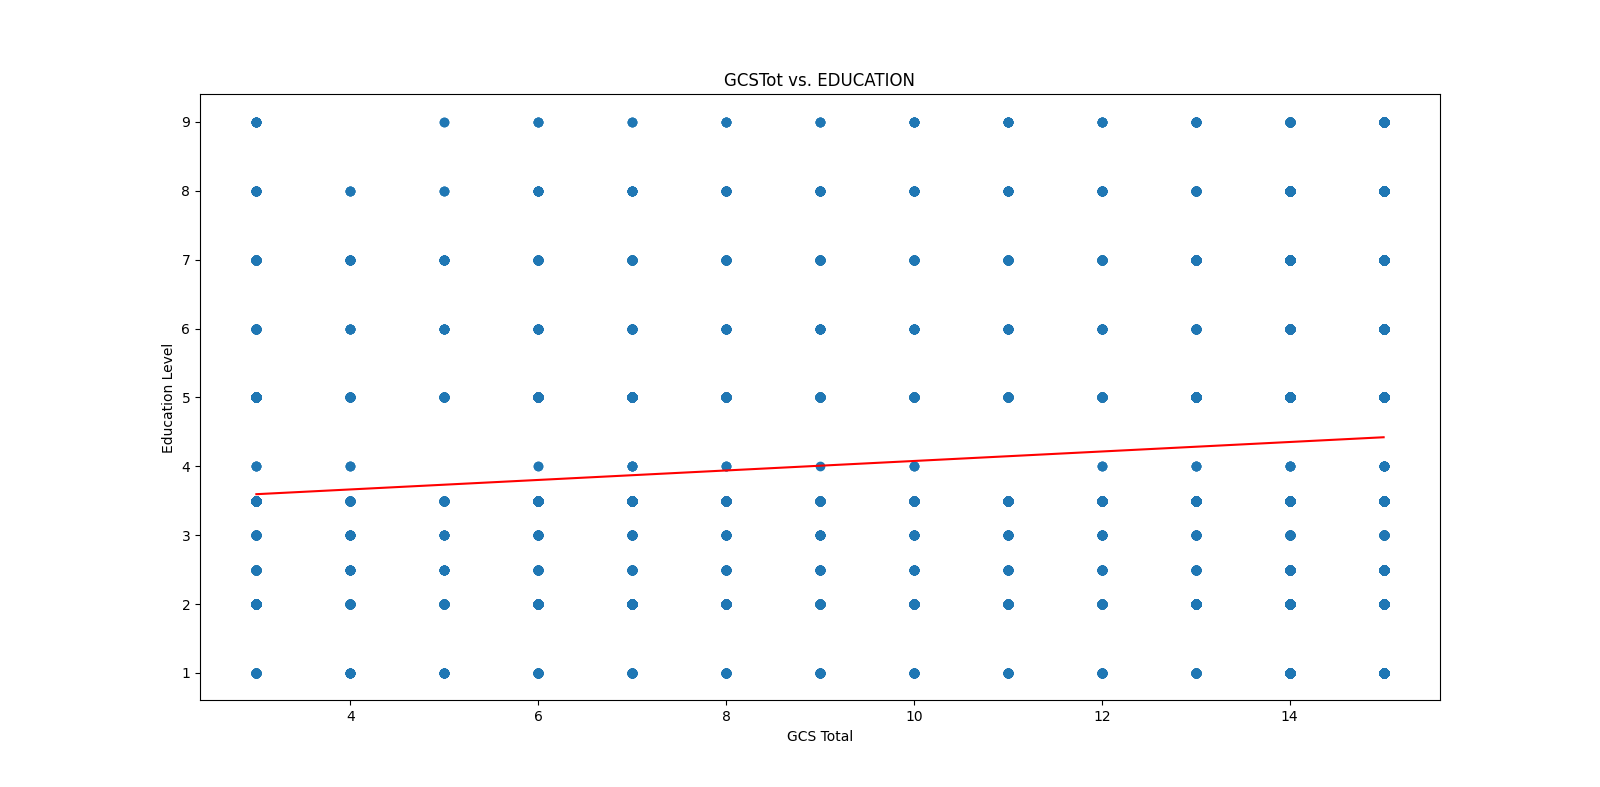
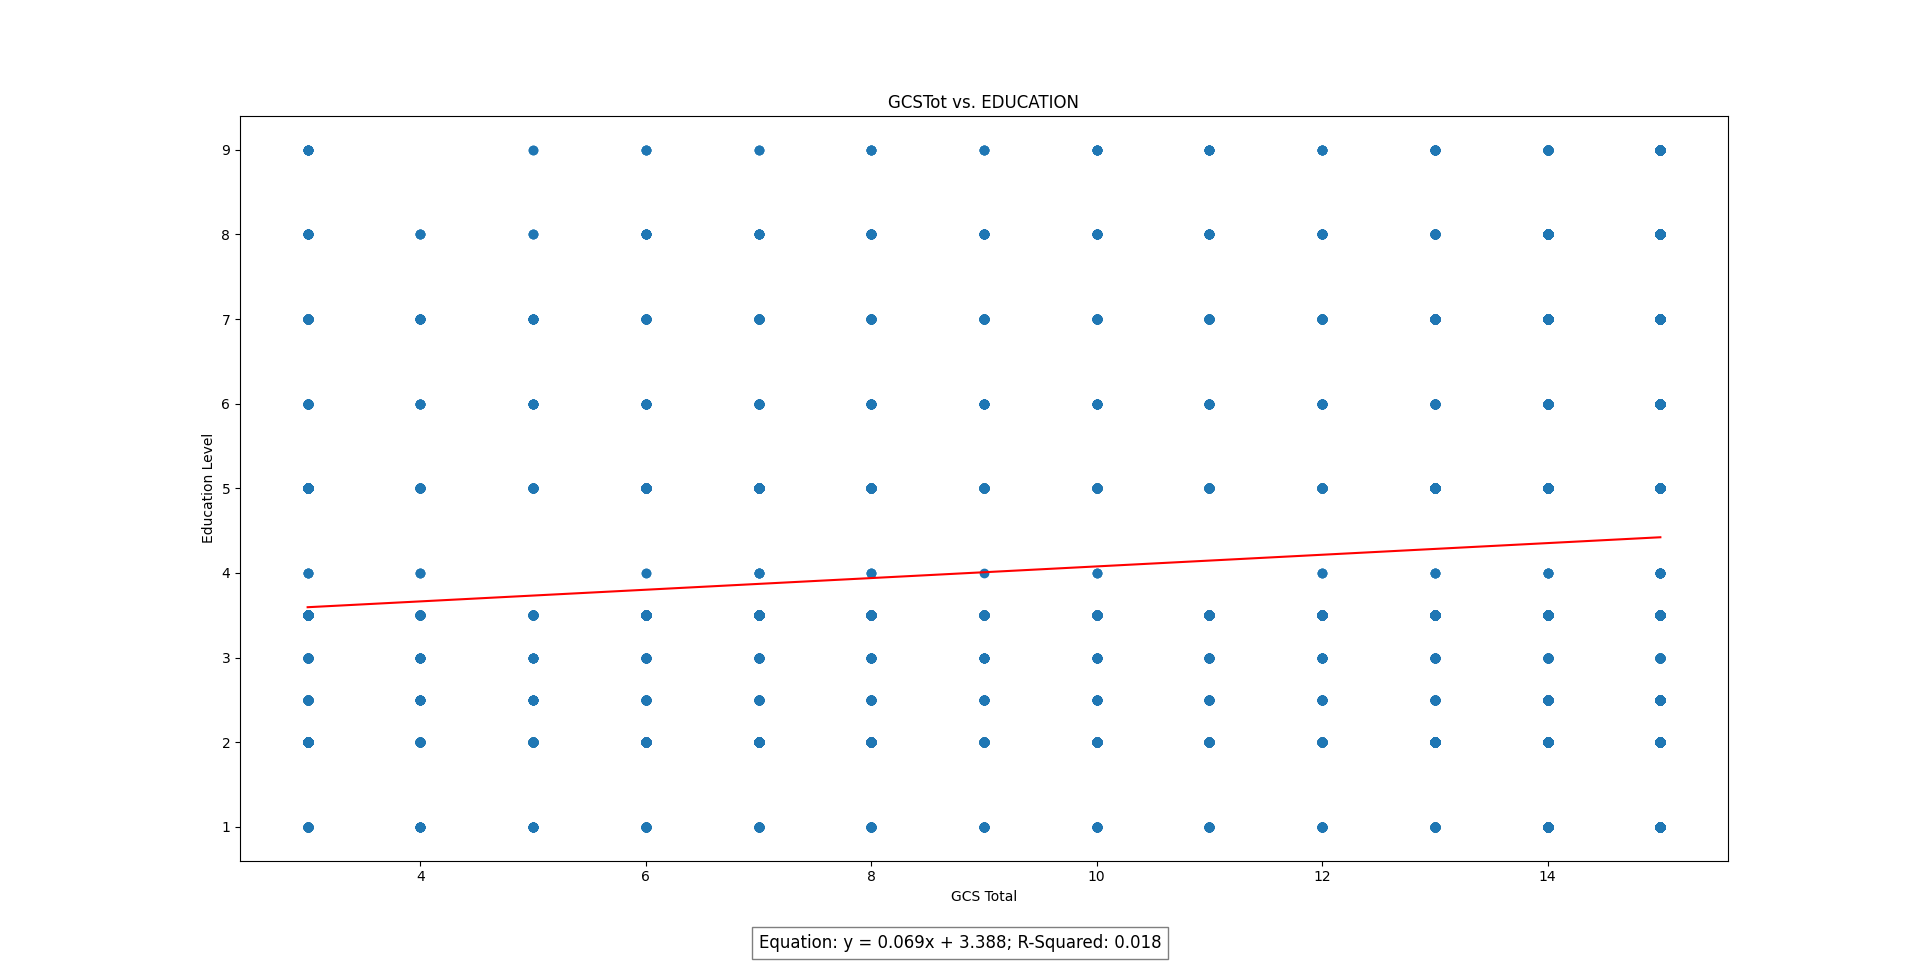
feat: fix changes and add further analysis

diff --git a/furtherAnalysis/GCSTot vs TFCDays with Substances .py b/furtherAnalysis/GCSTot vs TFCDays with Substances .py
@@ -1,0 +1,54 @@
+import pandas as pd
+import numpy as np
+import matplotlib.pyplot as plt
+import matplotlib.patches as mpatches
+
+df = pd.read_csv('TBI-Data.csv')
+
+# Convert columns to numeric
+df['GCSTot'] = pd.to_numeric(df['GCSTot'], errors='coerce')
+df['TFCDays'] = pd.to_numeric(df['TFCDays'], errors='coerce')
+df['Drugs'] = pd.to_numeric(df['Drugs'], errors='coerce')
+df['MJUse'] = pd.to_numeric(df['MJUse'], errors='coerce')
+
+df = df[df['TFCDays'] <= 150]
+
+# Remove rows with invalid values
+df = df[~df['GCSTot'].isin([77, 88, 999]) & ~df['TFCDays'].isin([7777, 9999])]
+df = df.dropna(subset=['GCSTot', 'TFCDays'])
+
+x = df['GCSTot']
+y = df['TFCDays']
+
+# Find coefficients
+coefficients = np.polyfit(x, y, 1)
+
+poly = np.poly1d(coefficients)
+
+x_line = np.linspace(min(x), max(x))
+y_line = poly(x_line)
+
+# Find R^2 [accuracy]
+corr_matrix = np.corrcoef(x, y)
+corr_coeff = corr_matrix[0,1]
+r_squared = corr_coeff**2
+
+equation = (f"y = {coefficients[0]:.3f}x + {coefficients[1]:.3f}")
+
+# Legend Colors
+no_patch = mpatches.Patch(color='dodgerblue', label='Have Not Used Drugs')
+yes_patch = mpatches.Patch(color='orange', label='Have Used Drugs')
+unknown_patch = mpatches.Patch(color='darkgreen', label='Unknown')
+regression_line_patch = mpatches.Patch(color='red', label='Regression Line')
+color_map = {0: 'dodgerblue', 1: 'orange'}
+colors = df['Drugs'].map(color_map).fillna('darkgreen')
+
+# Graph
+plt.scatter(x, y, c=colors)
+plt.plot(x_line, y_line, c='red')
+plt.title("GCSTot vs. TFCDays")
+plt.xlabel('GCS Total')
+plt.ylabel('TFCDays')
+plt.figtext(0.5, 0.02, f"Equation: {equation}; R-Squared: {r_squared:.3f}", ha="center", fontsize=12, bbox={"facecolor":"white", "alpha":0.5, "pad":5})
+plt.legend(handles=[no_patch, yes_patch, unknown_patch, regression_line_patch], loc='upper right')
+plt.show()

diff --git a/exploratoryAnalysis/GCS vs Education Level.py b/exploratoryAnalysis/GCS vs Education Level.py
@@ -42,6 +42,7 @@ plt.plot(x_line, y_line, c='red')
 plt.title("GCSTot vs. EDUCATION")
 plt.xlabel('GCS Total')
 plt.ylabel('Education Level')
+plt.figtext(0.5, 0.02, f"Equation: {equation}; R-Squared: {r_squared:.3f}", ha="center", fontsize=12, bbox={"facecolor":"white", "alpha":0.5, "pad":5})
 plt.show()
 
 # # Scatter Graph

diff --git a/README.md b/README.md
@@ -123,7 +123,7 @@ In December 2021, I underwent two major brain surgeries resulting in Subdural Ac
 
      <div align="center"><img src="graphImages/GCS vs. Age/GCSTot vs. AGEnoPHI.png" width="400"/></div>
 ----   
-2. Find a correlation between **GCS and the highest level of education attained**, and from there make a predictor to predict GCS levels based on the patient’s highest education.
+3. Find a correlation between **GCS and the highest level of education attained**, and from there make a predictor to predict GCS levels based on the patient’s highest education.
 
    a. **Variables**: GCSTot vs. EDUCATION
    
@@ -216,7 +216,7 @@ In December 2021, I underwent two major brain surgeries resulting in Subdural Ac
 ----   
 6. Find a correlation between the **speed of relative recovery and GCS separate scores and total score**, and from there make a predictor to predict the speed of relative recovery based on the patient’s GCS Scale’s separate scores and total score.
 
-   a. **Variables**: GCSTot vs. [ALCDrinks, Drugs, and MJUse]
+   a. **Variables**: TFCDays vs. [GCSEye, GCSVer, GCSMot, and GCSTot]
 
       1. **TFCDays** [Days From Injury to Follow Commands]:
 
